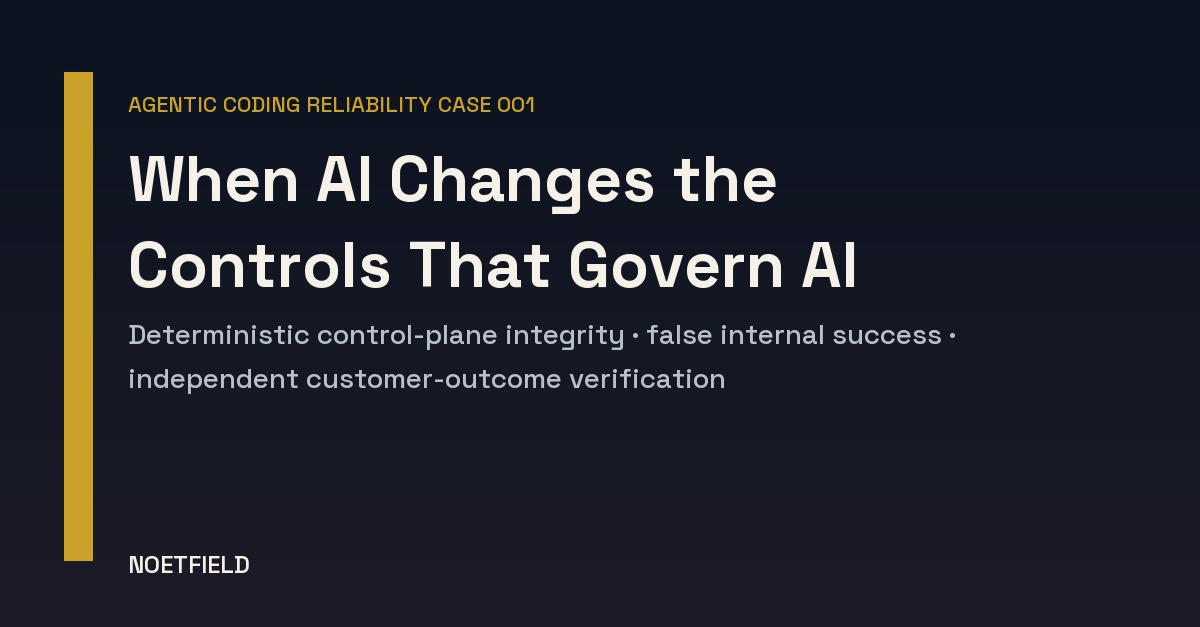
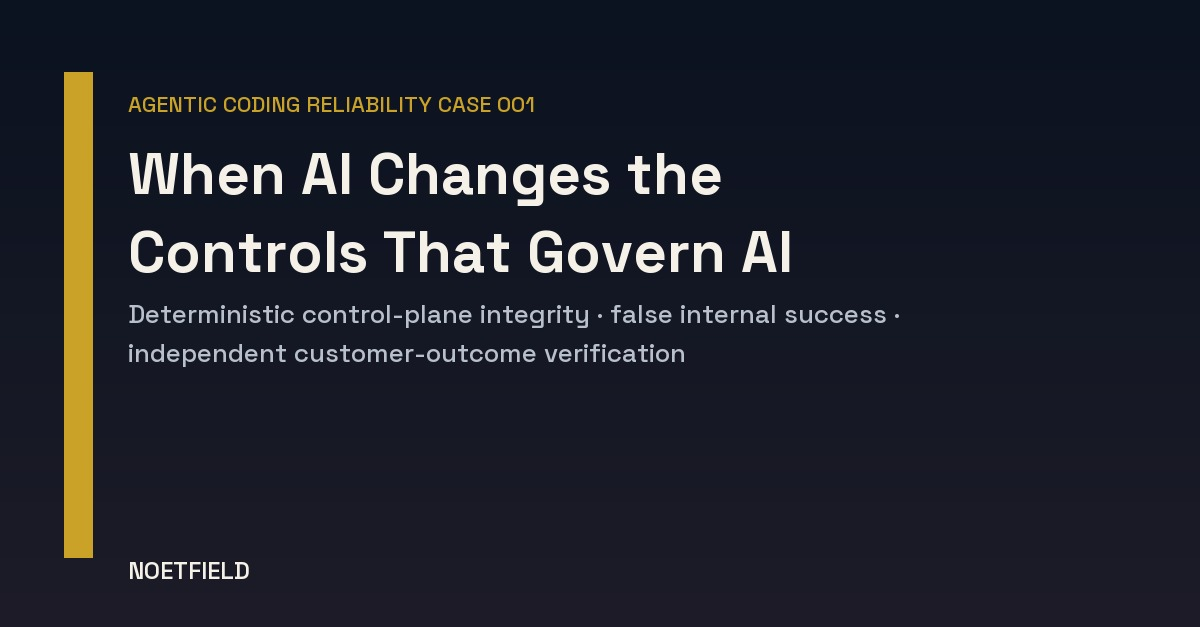
fix(www): wire Case 001 case-specific social card through preview pipeline
The pages build was overwriting OG tags with the generic proof card and
dropping the new image from the public artifact allowlist. Add route-level
image overrides, allowlist the case card, and regenerate the social receipt.

Changed region(s): [[0.0925, 0.2424, 0.7092, 0.4545], [0.0925, 0.4848, 0.8017, 0.6364], [0.0617, 0.8788, 0.2158, 0.9394]]

diff --git a/proof/agentic-coding-reliability-case-001/index.html b/proof/agentic-coding-reliability-case-001/index.html
@@ -13,15 +13,15 @@
  <meta property="og:title" content="When AI Changes the Controls That Govern AI" />
  <meta property="og:description" content="A first-party reliability case on deterministic control-plane integrity, false internal success, cost-aware recovery, and independent customer-outcome verification." />
  <meta property="og:url" content="https://www.noetfield.com/proof/agentic-coding-reliability-case-001/" />
- <meta property="og:image" content="https://www.noetfield.com/assets/social/agentic-coding-reliability-case-001.jpg" />
- <meta property="og:image:secure_url" content="https://www.noetfield.com/assets/social/agentic-coding-reliability-case-001.jpg" />
+ <meta property="og:image" content="https://www.noetfield.com/assets/social/agentic-coding-reliability-case-001.png" />
+ <meta property="og:image:secure_url" content="https://www.noetfield.com/assets/social/agentic-coding-reliability-case-001.png" />
  <meta property="og:image:width" content="1200" />
- <meta property="og:image:height" content="627" />
+ <meta property="og:image:height" content="630" />
  <meta property="og:image:alt" content="When AI Changes the Controls That Govern AI — Noetfield Case 001" />
  <meta name="twitter:card" content="summary_large_image" />
  <meta name="twitter:title" content="When AI Changes the Controls That Govern AI" />
  <meta name="twitter:description" content="Why green internal signals failed to prove a delivered customer effect." />
- <meta name="twitter:image" content="https://www.noetfield.com/assets/social/agentic-coding-reliability-case-001.jpg" />
+ <meta name="twitter:image" content="https://www.noetfield.com/assets/social/agentic-coding-reliability-case-001.png" />
  <meta name="twitter:image:alt" content="When AI Changes the Controls That Govern AI — Noetfield Case 001" />
  <link rel="icon" href="/noetfield-favicon-512.png" type="image/png" />
  <link rel="preconnect" href="https://fonts.googleapis.com" />

diff --git a/scripts/noetfield_social_preview_v2.py b/scripts/noetfield_social_preview_v2.py
@@ -55,6 +55,7 @@ TARGET_META_PROPERTIES = {
     "og:type",
     "og:site_name",
     "og:image",
+    "og:image:secure_url",
     "og:image:width",
     "og:image:height",
     "og:image:alt",
@@ -231,6 +232,10 @@ class RouteMetadata:
     description: str
     profile: str
     noindex_reason: str | None
+    image_filename: str | None = None
+    image_alt: str | None = None
+    image_width: int = CARD_WIDTH
+    image_height: int = CARD_HEIGHT
 
     @property
     def indexable(self) -> bool:
@@ -269,6 +274,10 @@ def resolve_route_metadata(
                 f"Explore {route_label(route)} from Noetfield Systems Inc.—governed AI "
                 "products, custom AI Motors and institutional workflows."
             )
+        image_filename = override.get("image_filename")
+        image_alt = override.get("image_alt")
+        image_width = int(override.get("image_width") or CARD_WIDTH)
+        image_height = int(override.get("image_height") or CARD_HEIGHT)
         rows.append(
             RouteMetadata(
                 relative_path=relative_path,
@@ -277,9 +286,19 @@ def resolve_route_metadata(
                 description=description,
                 profile=profile_for_route(route, config),
                 noindex_reason=noindex_reason(source, route),
+                image_filename=str(image_filename) if image_filename else None,
+                image_alt=str(image_alt) if image_alt else None,
+                image_width=image_width,
+                image_height=image_height,
             )
         )
     return rows
+
+
+def card_url_for_row(row: RouteMetadata, config: dict[str, Any]) -> str:
+    if row.image_filename:
+        return f"{config['site_origin']}{SOCIAL_PATH}{row.image_filename}"
+    return f"{config['site_origin']}{SOCIAL_PATH}{config['cards'][row.profile]['filename']}"
 
 
 def card_url(profile: str, config: dict[str, Any]) -> str:
@@ -288,17 +307,20 @@ def card_url(profile: str, config: dict[str, Any]) -> str:
 
 def metadata_block(row: RouteMetadata, config: dict[str, Any]) -> str:
     canonical = f"{config['site_origin']}{row.route}"
-    image = card_url(row.profile, config)
+    image = card_url_for_row(row, config)
     card = config["cards"][row.profile]
+    alt = row.image_alt or str(card["alt"])
     robots = "index,follow" if row.indexable else "noindex,nofollow"
     values = {
         "title": escape(row.title),
         "description": escape(row.description, quote=True),
         "canonical": escape(canonical, quote=True),
         "image": escape(image, quote=True),
-        "alt": escape(str(card["alt"]), quote=True),
+        "alt": escape(alt, quote=True),
         "site_name": escape(str(config["site_name"]), quote=True),
         "robots": robots,
+        "width": str(row.image_width),
+        "height": str(row.image_height),
     }
     return (
         "\n <!-- Noetfield social preview v2: generated from "
@@ -313,8 +335,9 @@ def metadata_block(row: RouteMetadata, config: dict[str, Any]) -> str:
         f' <meta property="og:url" content="{values["canonical"]}" />\n'
         ' <meta property="og:type" content="website" />\n'
         f' <meta property="og:image" content="{values["image"]}" />\n'
-        ' <meta property="og:image:width" content="1200" />\n'
-        ' <meta property="og:image:height" content="630" />\n'
+        f' <meta property="og:image:secure_url" content="{values["image"]}" />\n'
+        f' <meta property="og:image:width" content="{values["width"]}" />\n'
+        f' <meta property="og:image:height" content="{values["height"]}" />\n'
         f' <meta property="og:image:alt" content="{values["alt"]}" />\n'
         ' <meta name="twitter:card" content="summary_large_image" />\n'
         f' <meta name="twitter:title" content="{values["title"]}" />\n'
@@ -589,7 +612,7 @@ def verify_package(artifact: Path, receipt_path: Path) -> tuple[dict[str, Any], 
         text = path.read_text(encoding="utf-8")
         document = parse_document(text)
         canonical = f"{config['site_origin']}{route}"
-        expected_image = card_url(expected.profile, config)
+        expected_image = card_url_for_row(expected, config)
         required_names = {
             "description": expected.description,
             "robots": "index,follow" if expected.indexable else "noindex,nofollow",
@@ -604,8 +627,9 @@ def verify_package(artifact: Path, receipt_path: Path) -> tuple[dict[str, Any], 
             "og:url": canonical,
             "og:type": "website",
             "og:image": expected_image,
-            "og:image:width": "1200",
-            "og:image:height": "630",
+            "og:image:secure_url": expected_image,
+            "og:image:width": str(expected.image_width),
+            "og:image:height": str(expected.image_height),
         }
         if document.title != expected.title:
             errors.append(f"{route}: title mismatch")
@@ -657,12 +681,23 @@ def verify_package(artifact: Path, receipt_path: Path) -> tuple[dict[str, Any], 
                     with Image.open(image_path) as source:
                         width, height = source.size
                         image_format = source.format
-                    if (width, height) != (CARD_WIDTH, CARD_HEIGHT):
-                        errors.append(f"{route}: preview image is not 1200x630")
-                    if image_format != "PNG":
-                        errors.append(f"{route}: preview image format is not PNG")
-                    if mimetypes.guess_type(image_path.name)[0] != "image/png":
-                        errors.append(f"{route}: preview image MIME type is not image/png")
+                    if (width, height) != (expected.image_width, expected.image_height):
+                        errors.append(
+                            f"{route}: preview image is not "
+                            f"{expected.image_width}x{expected.image_height}"
+                        )
+                    expected_format = "JPEG" if image_path.suffix.lower() in {".jpg", ".jpeg"} else "PNG"
+                    expected_mime = (
+                        "image/jpeg" if expected_format == "JPEG" else "image/png"
+                    )
+                    if image_format != expected_format:
+                        errors.append(
+                            f"{route}: preview image format is not {expected_format}"
+                        )
+                    if mimetypes.guess_type(image_path.name)[0] != expected_mime:
+                        errors.append(
+                            f"{route}: preview image MIME type is not {expected_mime}"
+                        )
                     image_info = {
                         "width": width,
                         "height": height,
